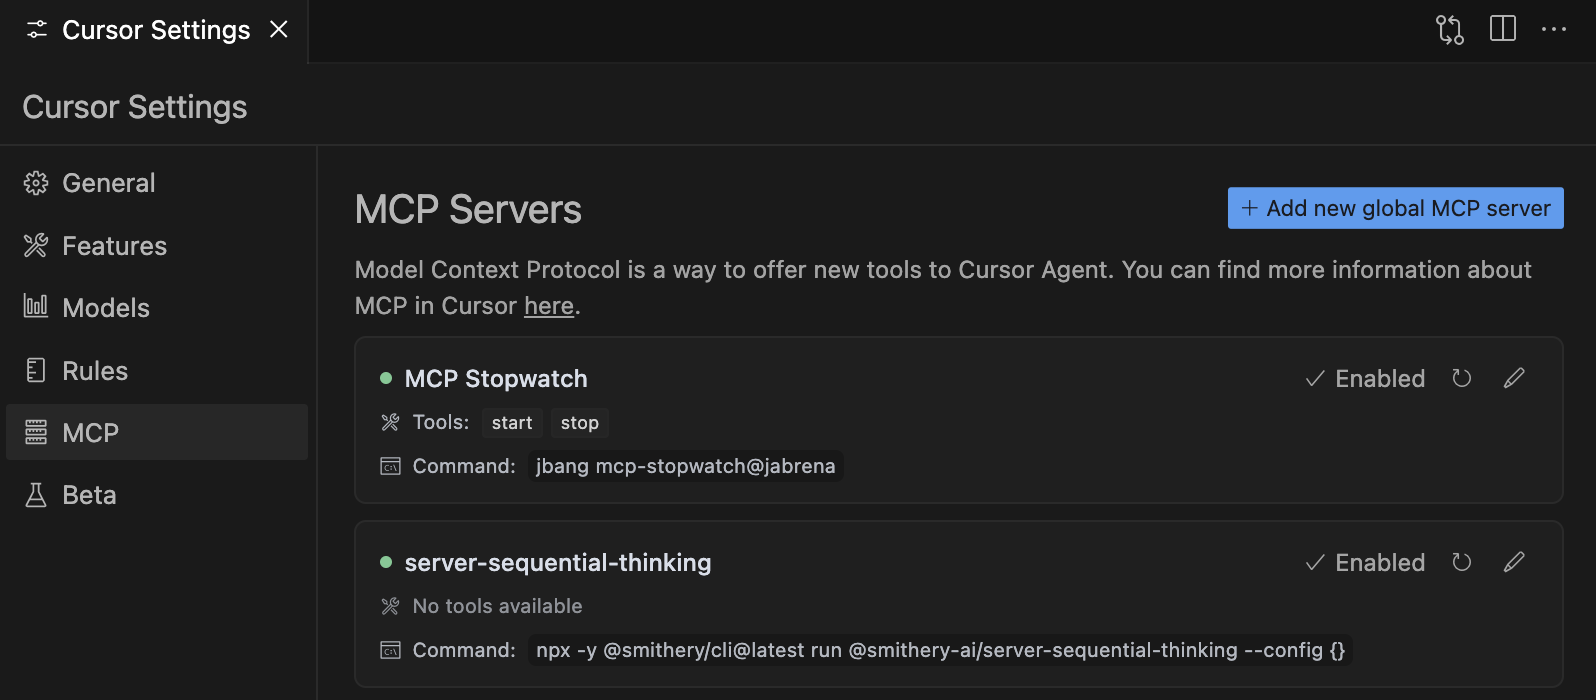
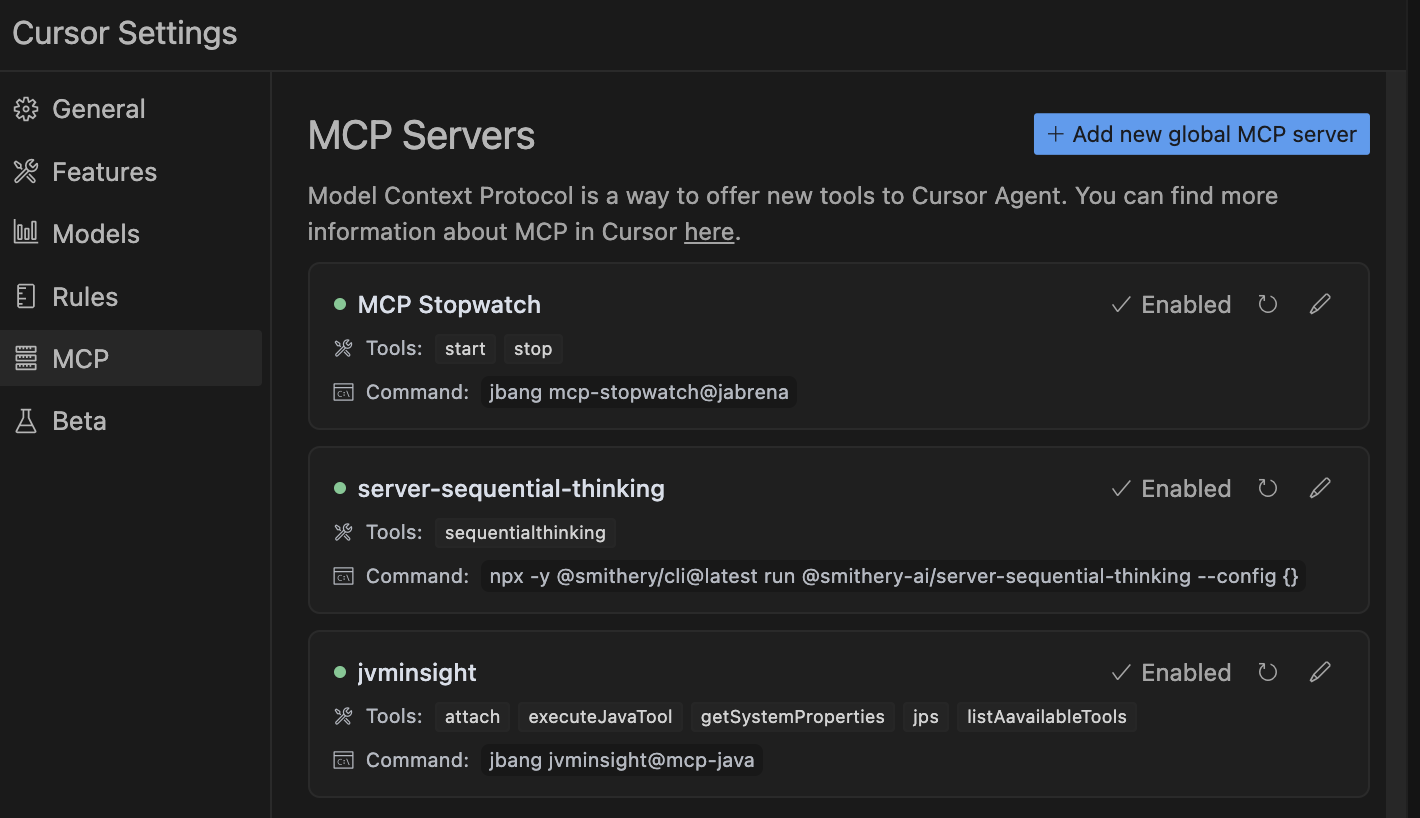
Adding new slides (#40)

diff --git a/docs/index.html b/docs/index.html
@@ -65,6 +65,13 @@
 							<i>- William S. Burroughs</i>
 						</blockquote>
 					</section>
+					<section>
+						<blockquote>
+							“People have a right to joy in their work.”
+							<br />
+							<i>- W. Edwards Deming</i>
+						</blockquote>
+					</section>
 				</section>
 				<section align="left" data-background="#ffd7b5"><!-- data-background="./images/innovation.jpg" -->
 					<h2 align="center">Who I am</h2>
@@ -186,18 +193,15 @@
 						<li>Q&A</li>
 					</ul>
 				</section>
-				<!--
 				<section>
 					<section>
-						<h2>Goals</h2>
+						<h2>Poll</h2>
 						<p>
-							The talk is designed to explain in 60 minutes, 
-							how to use Cursor AI for Java Enterprise software development.
+							Can you raise your hand if you have tried Cursor AI?
 						</p>
-						<img src="images/introduction/pirelli-carl-lewis.jpg" width="60%" />
+						<img src="images/trivia.png" width="30%" />
 					</section>
 				</section>
-				-->
 				<section>
 					<section>
 						<h2>Introduction</h2>
@@ -295,6 +299,7 @@
 							<li>Security features</li>
 							<li>Enterprise features</li>
 							<li>Context features</li>
+							<li>Developer features</li>
 						</ul>
 					</section>
 					<section>
@@ -302,24 +307,11 @@
 						<ul>
 							<li>Security features
 								<ul>
-									<li>Business</li>
 									<li>Privacy mode</li>
 									<li>Trust</li>
 								</ul>
 							</li>
 						</ul>
-					</section>
-					<section>
-						<h3>Business</h3>
-						<img src="images/review/cursor-pricing.png" width="100%" />
-						<p>
-							<ul>
-								<li>Enforce privacy mode org-wide</li>
-								<li>SAML/OIDC SSO</li>
-							</ul>
-						</p>
-						<small><strong>Source: </strong><a href="https://www.cursor.com/pricing" 
-							target="_blank">https://www.cursor.com/pricing</a></small>
 					</section>
 					<section>
 						<h3>Privacy mode</h3>
@@ -344,6 +336,7 @@
 						<ul>
 							<li>Enterprise features
 								<ul>
+									<li>Business account</li>
 									<li>Team management</li>
 									<li>Budget management</li>
 									<li>Team metrics</li>
@@ -352,12 +345,24 @@
 						</ul>
 					</section>
 					<section>
-						<h3>Team management</h3>
-						<img src="images/review/cursor-business-team.png" width="60%" />
+						<h3>Business account</h3>
+						<img src="images/review/cursor-pricing.png" width="100%" />
+						<p>
+							<ul>
+								<li>Enforce privacy mode org-wide</li>
+								<li>SAML/OIDC SSO</li>
+							</ul>
+						</p>
+						<small><strong>Source: </strong><a href="https://www.cursor.com/pricing" 
+							target="_blank">https://www.cursor.com/pricing</a></small>
 					</section>
 					<section>
 						<h3>Team management</h3>
-						<img src="images/review/cursor-business-team-add.png" width="70%" />
+						<img src="images/review/cursor-business-team.png" width="50%" />
+					</section>
+					<section>
+						<h3>Team management</h3>
+						<img src="images/review/cursor-business-team-add.png" width="60%" />
 					</section>
 					<section>
 						<h3>Budget management</h3>
@@ -379,7 +384,7 @@
 									<li>Modes (Agent, Ask, Manual)</li>
 									<li>Cursor rules</li>
 									<li>Symbols</li>
-									<li>MCP integration</li>
+									<li>MCP</li>
 								</ul>
 							</li>
 						</ul>
@@ -485,24 +490,66 @@
 						<img src="images/demo.png" width="80%" />
 					</section>
 					<section>
-						<h3>MCP servers</h3>
+						<h3>MCP</h3>
+						<img src="images/review/mcp.png" width="50%" />
 						<p>
-							The Model Context Protocol (MCP) is an open protocol that standardizes how applications provide context and tools to LLMs. 
-							Think of MCP as a plugin system for Cursor - it allows you to extend the Agent's capabilities by connecting it to various data sources 
-							and tools through standardized interfaces.
+							Model Context Protocol (MCP) is an open protocol that standardizes how applications provide context to LLMs.
+						</p>
+						<small><strong>Source: </strong><a href="https://modelcontextprotocol.io/introduction" 
+							target="_blank">https://modelcontextprotocol.io/introduction</a></small>
+					</section>
+					<section>
+						<h3>MCP</h3>
+						<img src="images/review/mcp-architecture.png" width="50%" />
+						<p>
+							Think of MCP as a plugin system for Cursor
 						</p>
 						<small><strong>Source: </strong><a href="https://docs.cursor.com/context/model-context-protocol" 
 							target="_blank">https://docs.cursor.com/context/model-context-protocol</a></small>
 					</section>
 					<section>
-						<h3>MCP servers</h3>
+						<h3>MCP</h3>
 						<img src="images/review/review-cursor-mcp.png" width="80%" />
+					</section>
+					<section>
+						<h3>MCP</h3>
 						<p>
 							<ul>
+								<li><a href="https://mcp-java.github.io/" target="_blank">https://mcp-java.github.io/</a></li>
 								<li><a href="https://smithery.ai/" target="_blank">https://smithery.ai/</a></li>
 								<li><a href="https://github.com/punkpeye/awesome-mcp-servers" target="_blank">https://github.com/punkpeye/awesome-mcp-servers</a></li>
 							</ul>
 						</p>
+					</section>
+					<section>
+						<h3>MCP</h3>
+						<img src="images/review/mcp-java.png" width="60%" /><br/>
+						<small><strong>Source: </strong><a href="https://mcp-java.github.io/" 
+							target="_blank">https://mcp-java.github.io/</a></small>
+					</section>
+					<section>
+						<h3>MCP</h3>
+						<img src="images/warning.png" width="10%" /><br/>
+						<ul>
+							<li>Verify that you are using signed MCP servers</li>
+							<li>Verify the sources of your MCP servers</li>
+						</ul>
+					</section>				
+					<section>
+						<img src="images/demo.png" width="80%" />
+					</section>
+					<section>
+						<h2>Reviewing the IDE</h2>
+						<ul>
+							<li>Developer features
+								<ul>
+									<li>Review changes</li>
+								</ul>
+							</li>
+						</ul>
+					</section>
+					<section>
+						<h3>Review changes</h3>
 					</section>
 					<section>
 						<img src="images/demo.png" width="80%" />
